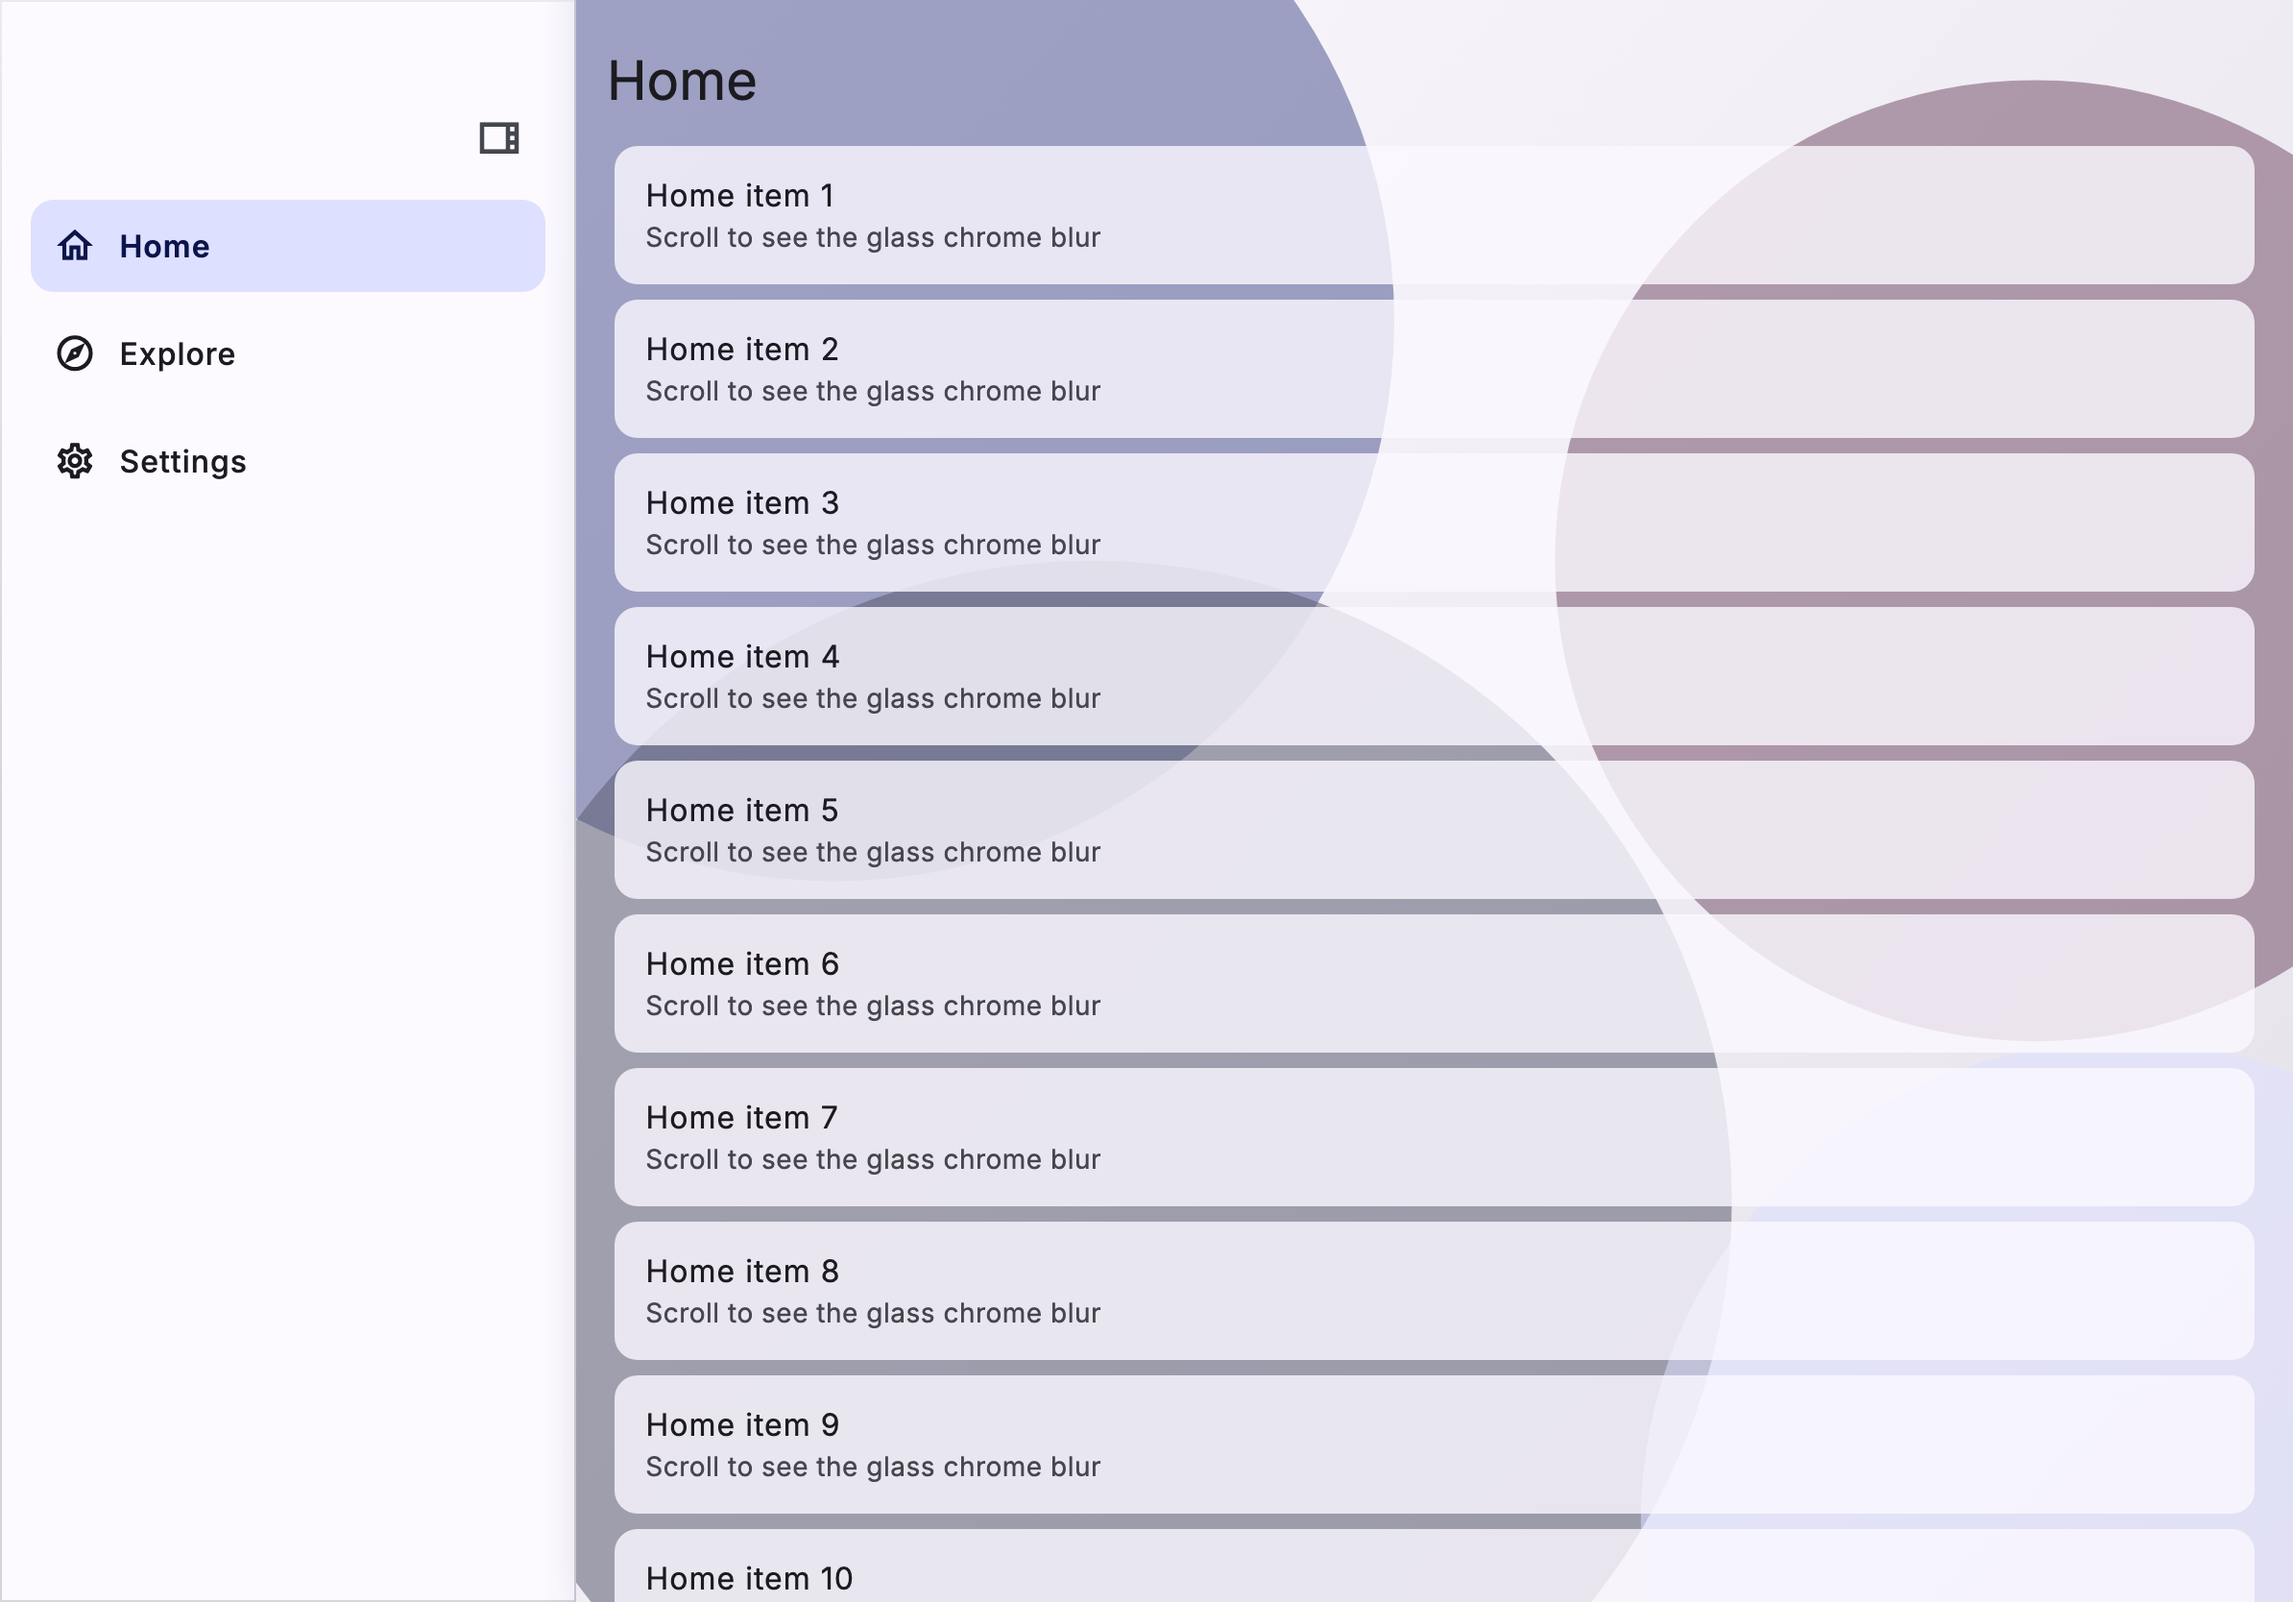
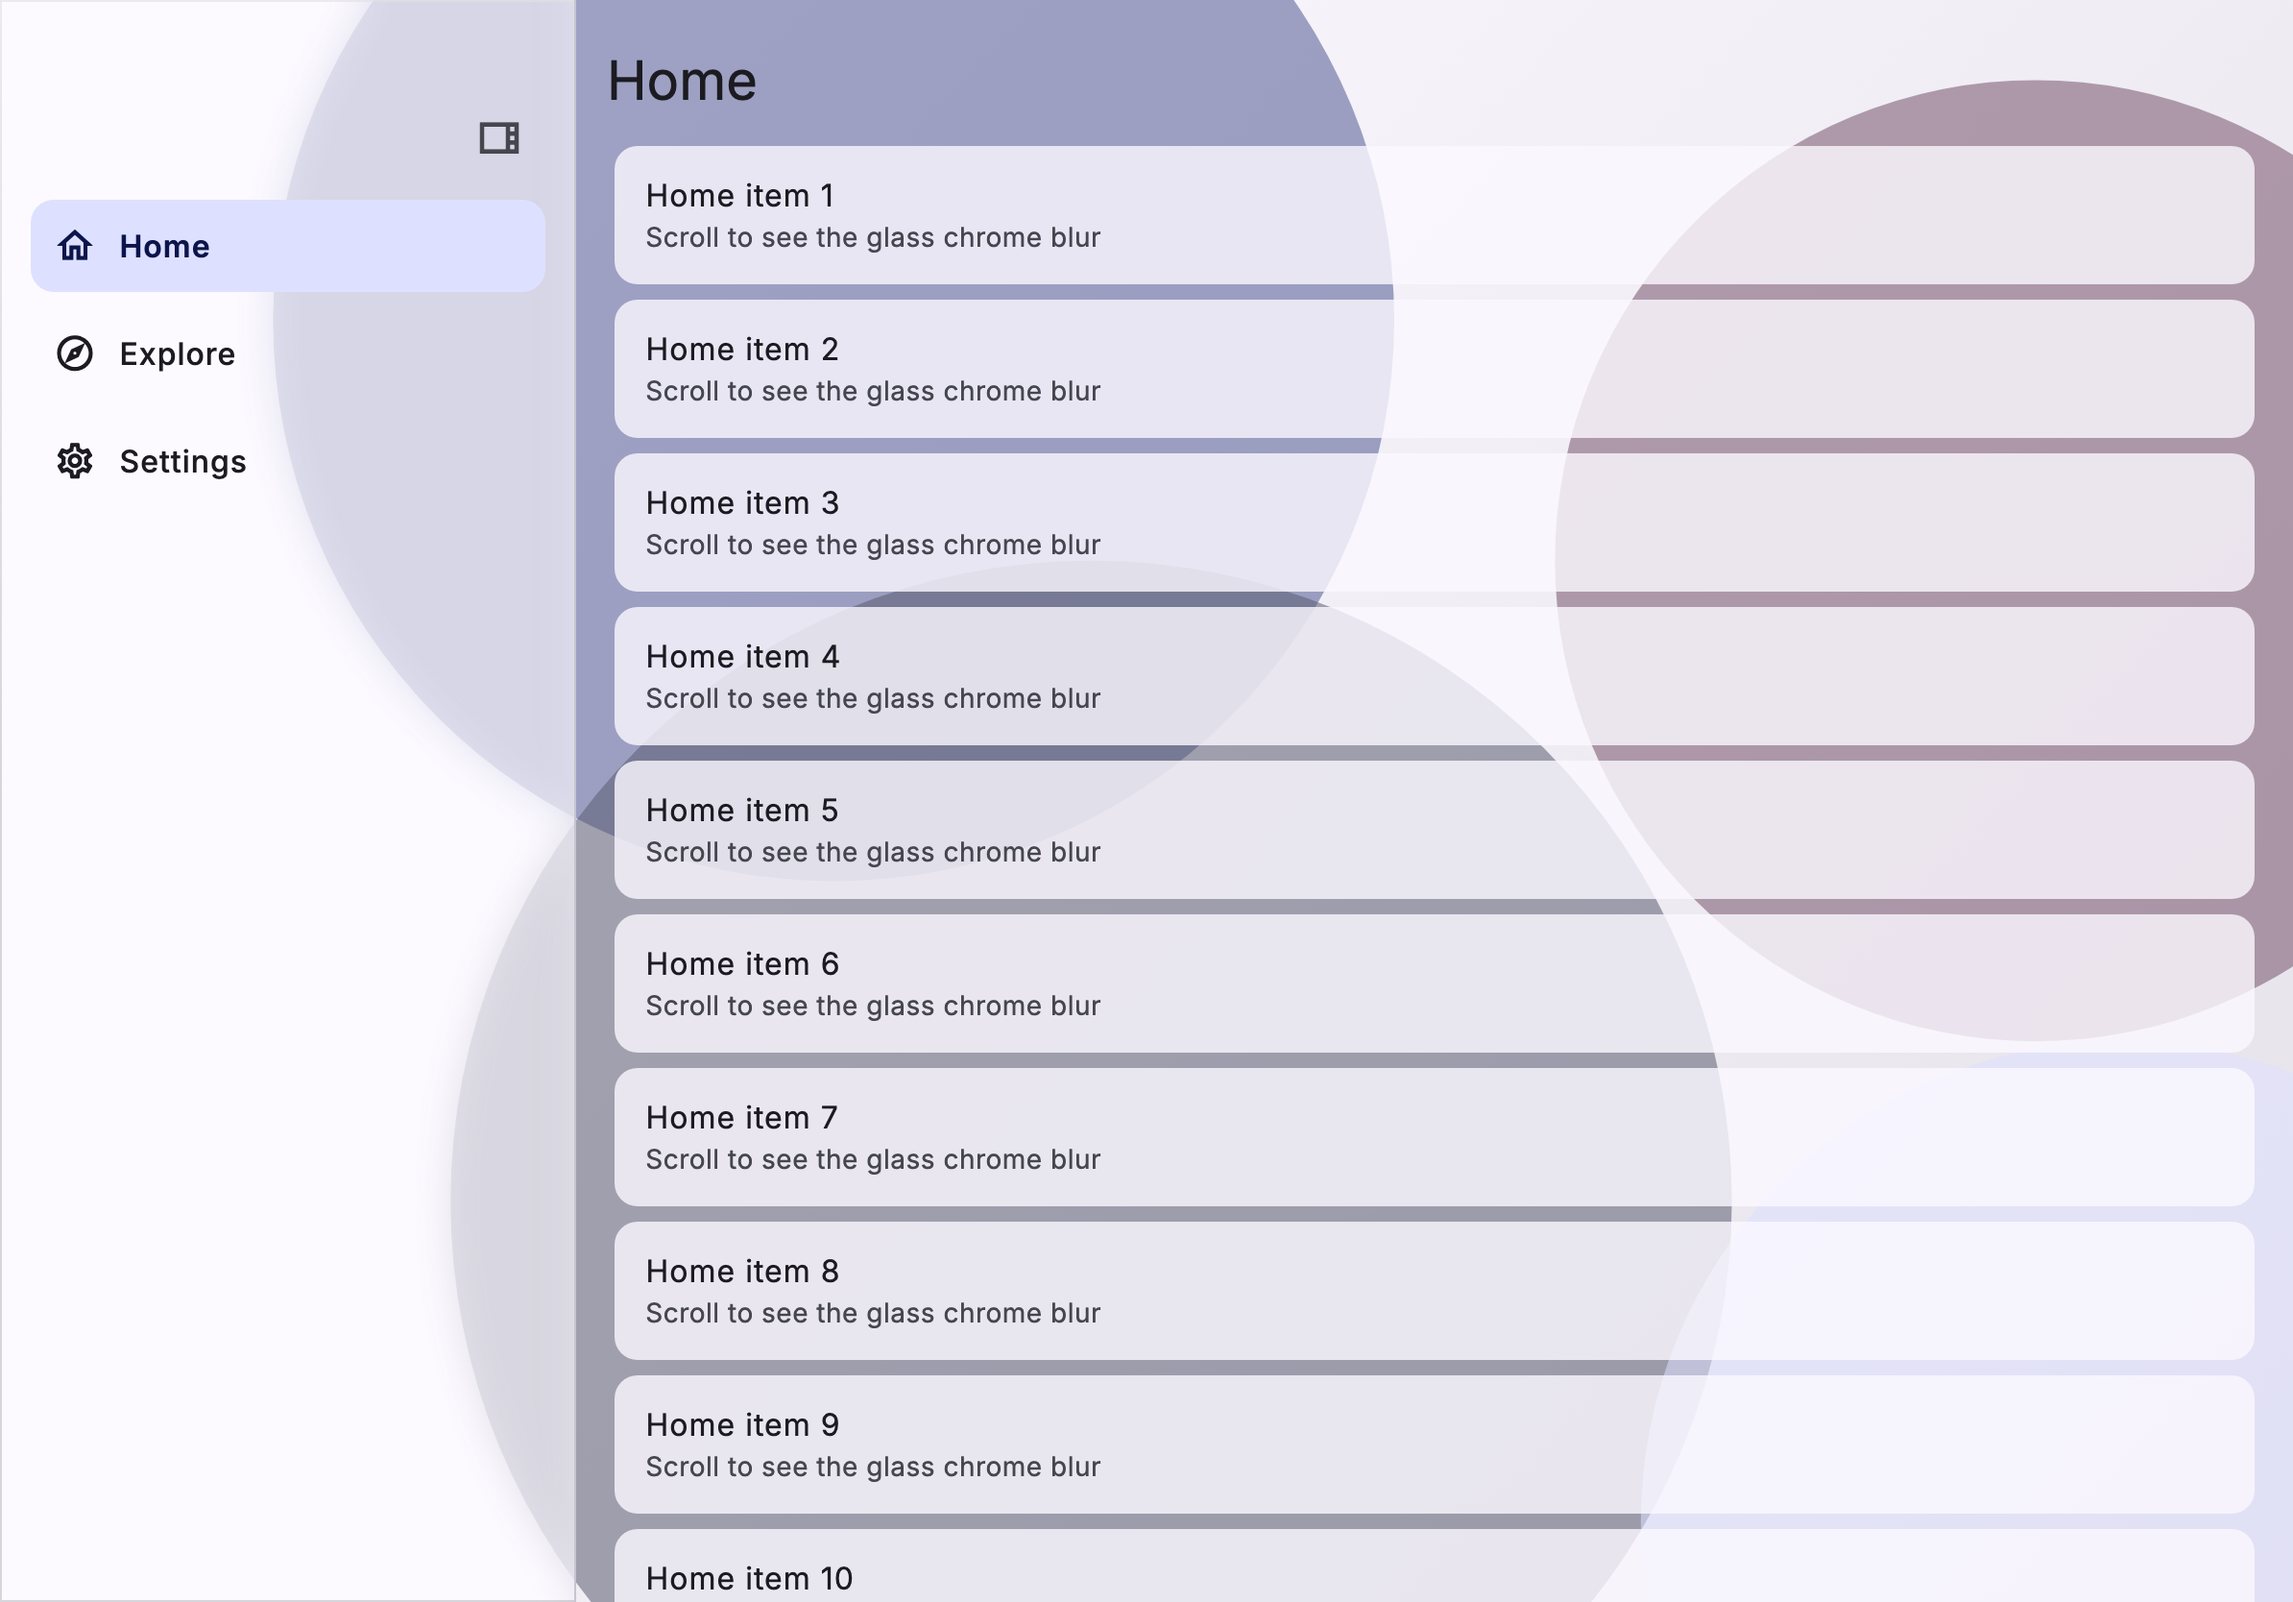
fix(example): only the narrow case clips its wallpaper; iPad sidebars show the discs through the glass again (VK-345)
The wallpaper painter no longer clips (owner 2A). The narrow case clips
its 320pt shell, which stands for a narrow window. Regenerates the five
iPad landscape images.

Changed region(s): [[0.093, 0.0, 0.2479, 0.4988], [0.1859, 0.53, 0.2479, 0.9664]]

diff --git a/liquid_shell/example/lib/cases/narrow_width.dart b/liquid_shell/example/lib/cases/narrow_width.dart
@@ -18,8 +18,8 @@ const kNarrowDestinations = [
 /// Five tabs plus a trailing action in a 320pt-wide shell, as in iPad Slide
 /// Over or ⅓ Split View. Below [kLiquidNarrowWidth] the shell trims the row
 /// margin to 8 and the pill padding to 4, so every cell stays at least
-/// 44pt wide at text scale 1 (Q17). The shell decides from its own width,
-/// not the screen's.
+/// 44pt wide at text scale 1 (Q17), and the labels fit untruncated (Q18).
+/// The shell decides from its own width, not the screen's.
 class NarrowWidthCase extends StatefulWidget {
   /// Creates the case.
   const NarrowWidthCase({super.key});
@@ -35,33 +35,37 @@ class _NarrowWidthCaseState extends State<NarrowWidthCase> {
   Widget build(BuildContext context) => ColoredBox(
     color: Theme.of(context).colorScheme.surfaceContainerLowest,
     child: Center(
-      // #docregion readme
-      child: SizedBox(
-        width: kNarrowShellWidth,
-        child: LiquidShell(
-          destinations: kNarrowDestinations,
-          selectedIndex: _index,
-          onDestinationSelected: (i) => setState(() => _index = i),
-          tabBarTrailing: LiquidTabAction(
-            icon: const Icon(Icons.search),
-            semanticLabel: 'Search',
-            onPressed: () => Navigator.of(context).push(
-              MaterialPageRoute<void>(builder: (_) => const SearchPage()),
+      // The 320pt shell stands for a narrow window, which clips what it
+      // draws: the wallpaper discs stay inside it.
+      child: ClipRect(
+        // #docregion readme
+        child: SizedBox(
+          width: kNarrowShellWidth,
+          child: LiquidShell(
+            destinations: kNarrowDestinations,
+            selectedIndex: _index,
+            onDestinationSelected: (i) => setState(() => _index = i),
+            tabBarTrailing: LiquidTabAction(
+              icon: const Icon(Icons.search),
+              semanticLabel: 'Search',
+              onPressed: () => Navigator.of(context).push(
+                MaterialPageRoute<void>(builder: (_) => const SearchPage()),
+              ),
+            ),
+            body: DemoPage(
+              title: kNarrowDestinations[_index].label,
+              children: const [
+                Text(
+                  'This shell is 320pt wide, below kLiquidNarrowWidth (340): '
+                  'row margin 8, pill padding 4, 45.2pt cells.',
+                ),
+                SizedBox(height: 12),
+              ],
             ),
           ),
-          body: DemoPage(
-            title: kNarrowDestinations[_index].label,
-            children: const [
-              Text(
-                'This shell is 320pt wide, below kLiquidNarrowWidth (340): '
-                'row margin 8, pill padding 4, 45.2pt cells.',
-              ),
-              SizedBox(height: 12),
-            ],
-          ),
         ),
+        // #enddocregion readme
       ),
-      // #enddocregion readme
     ),
   );
 }

diff --git a/liquid_shell/example/test/wallpaper_test.dart b/liquid_shell/example/test/wallpaper_test.dart
@@ -1,11 +1,12 @@
 import 'package:flutter/material.dart';
 import 'package:flutter_test/flutter_test.dart';
+import 'package:liquid_shell/liquid_shell.dart';
+import 'package:liquid_shell_example/cases/narrow_width.dart';
 import 'package:liquid_shell_example/support/wallpaper.dart';
 
 void main() {
-  testWidgets('the wallpaper paints inside its own bounds', (tester) async {
-    // A box narrower than the window, as in the narrow case: the discs must
-    // not spill into the window around it.
+  testWidgets('the wallpaper does not clip, so its discs reach under a '
+      'tiled sidebar and show through its glass (owner 2A)', (tester) async {
     await tester.pumpWidget(
       const MaterialApp(
         home: Center(
@@ -19,6 +20,29 @@ void main() {
         matching: find.byType(CustomPaint),
       ),
     );
-    expect(paint, paints..clipRect(rect: Offset.zero & const Size(120, 200)));
+    expect(paint, paints..circle());
+    expect(paint, isNot(paints..clipRect()));
+  });
+
+  testWidgets('only the narrow case clips, at its 320pt shell: the shell '
+      'stands for a narrow window', (tester) async {
+    tester.view
+      ..devicePixelRatio = 1
+      ..physicalSize = const Size(393, 852);
+    addTearDown(tester.view.reset);
+    await tester.pumpWidget(const MaterialApp(home: NarrowWidthCase()));
+    final clip = find.ancestor(
+      of: find.byType(LiquidShell),
+      matching: find.descendant(
+        of: find.byType(NarrowWidthCase),
+        matching: find.byType(ClipRect),
+      ),
+    );
+    expect(clip, findsOneWidget);
+    expect(
+      tester.getRect(clip),
+      tester.getRect(find.byType(LiquidShell)),
+    );
+    expect(tester.getSize(clip).width, kNarrowShellWidth);
   });
 }

diff --git a/liquid_shell/example/lib/support/wallpaper.dart b/liquid_shell/example/lib/support/wallpaper.dart
@@ -24,19 +24,18 @@ class WallpaperPainter extends CustomPainter {
   @override
   void paint(Canvas canvas, Size size) {
     final rect = Offset.zero & size;
-    // The discs overhang the edges; keep them inside a wallpaper that is
-    // narrower than the window (the narrow case).
-    canvas
-      ..clipRect(rect)
-      ..drawRect(
-        rect,
-        Paint()
-          ..shader = LinearGradient(
-            begin: Alignment.topLeft,
-            end: Alignment.bottomRight,
-            colors: [scheme.surface, scheme.surfaceContainerHighest],
-          ).createShader(rect),
-      );
+    // No clip: the discs overhang the edges on purpose, so on iPad they reach
+    // under the tiled sidebar and show through its glass. A case that must
+    // stay inside its bounds clips itself (the narrow case).
+    canvas.drawRect(
+      rect,
+      Paint()
+        ..shader = LinearGradient(
+          begin: Alignment.topLeft,
+          end: Alignment.bottomRight,
+          colors: [scheme.surface, scheme.surfaceContainerHighest],
+        ).createShader(rect),
+    );
     final discs = [
       (const Offset(0.15, 0.2), 0.35, scheme.primary),
       (const Offset(0.85, 0.35), 0.30, scheme.tertiary),
